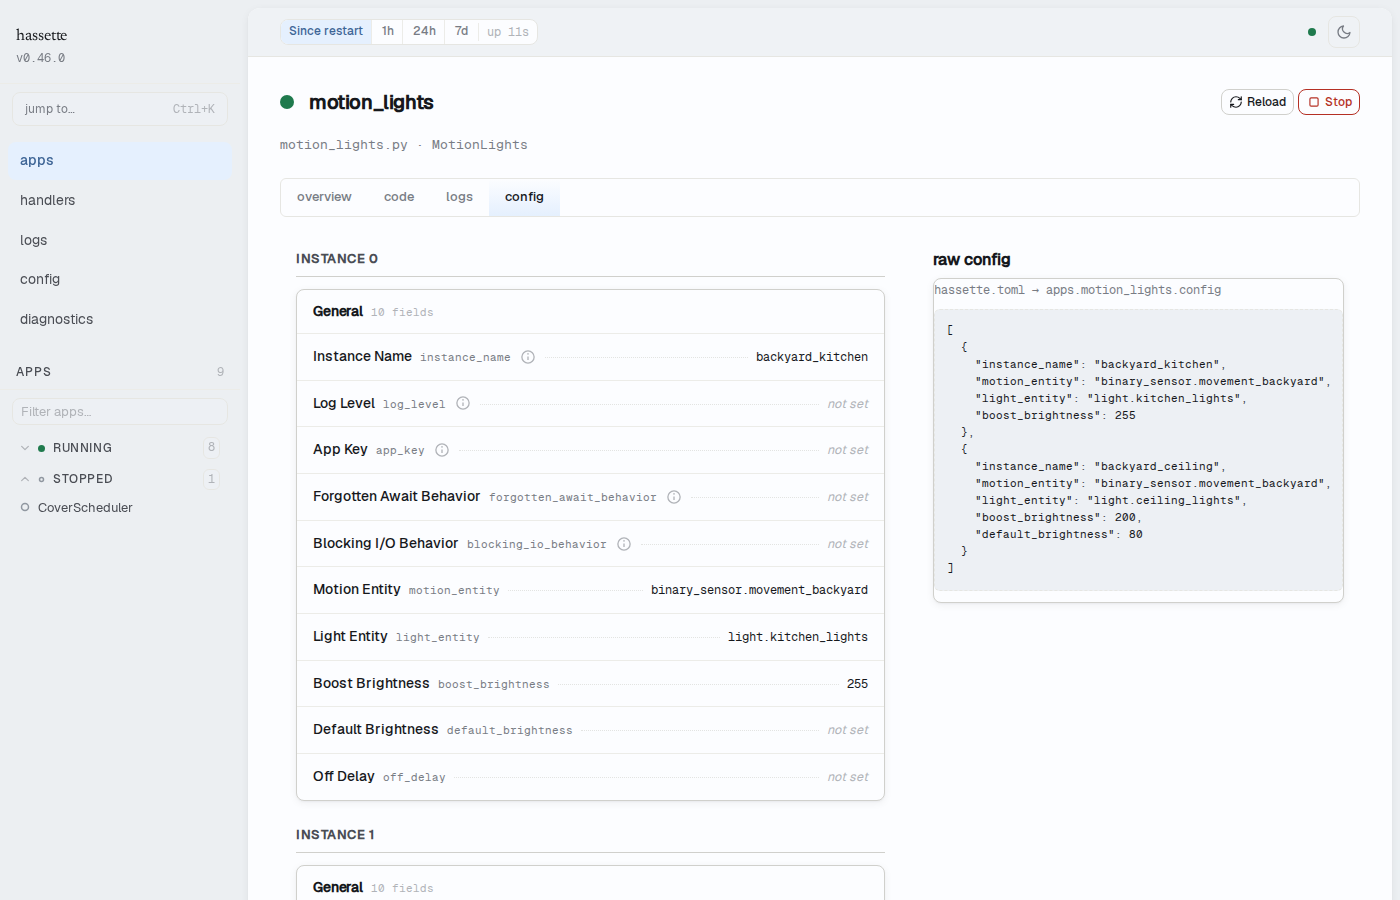
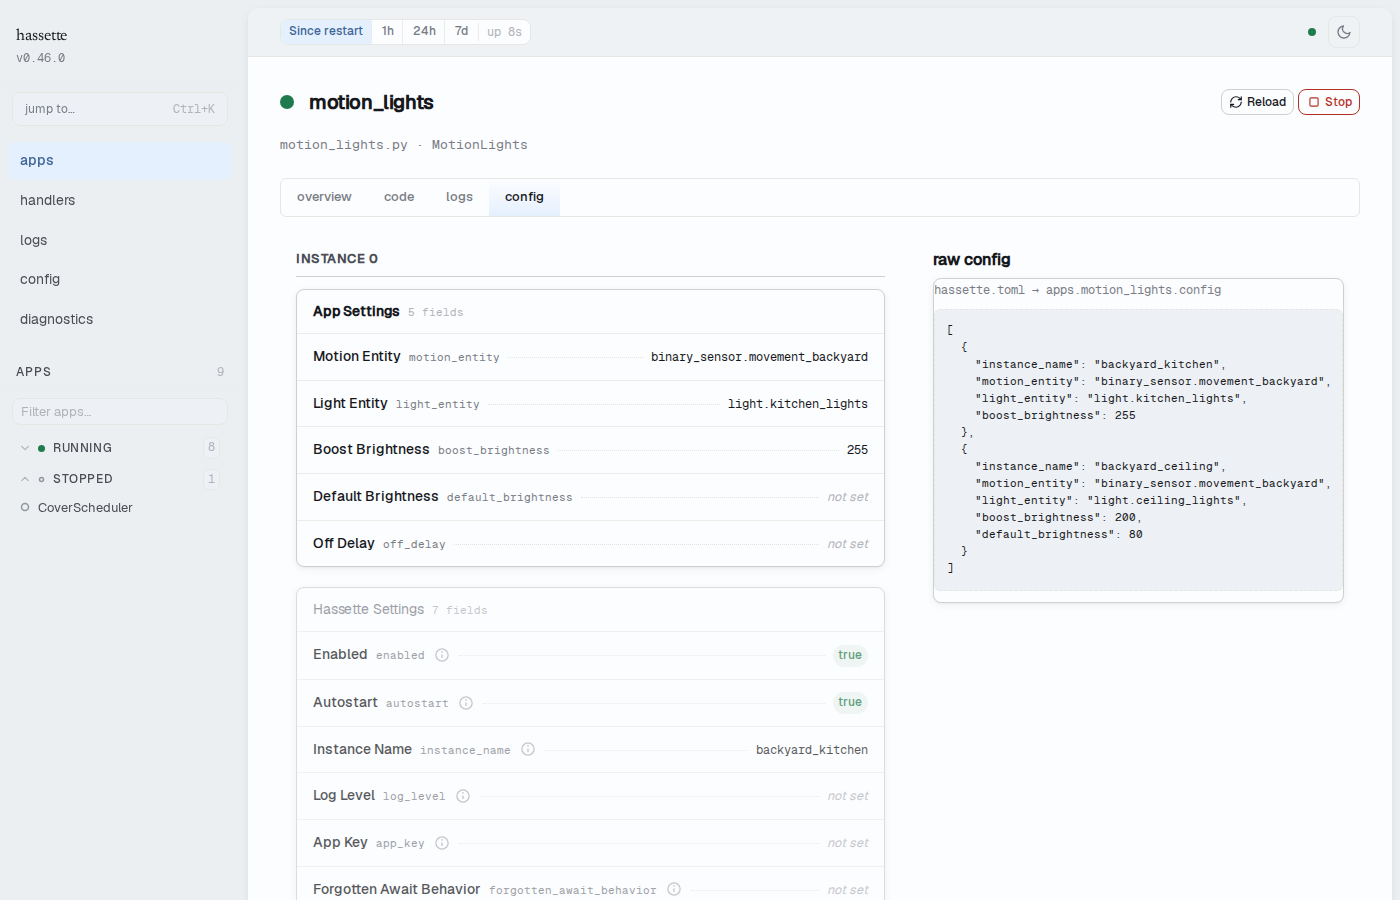
refactor(ui): address coderabbit review on config tab partitioning
- Make autostart and framework_fields required on AppConfigResponse
  (no defaults — both are always set by get_app_config)
- Use m.autostart directly in e2e mock instead of getattr fallback
- Add test for all-framework-managed case (suppresses App Settings)
- Regenerate doc screenshot for the new config tab layout

diff --git a/frontend/src/components/shared/config-schema-view.test.tsx b/frontend/src/components/shared/config-schema-view.test.tsx
@@ -281,6 +281,25 @@ describe("ConfigSchemaView", () => {
       expect(queryByTestId("config-section-hassette-settings")).toBeNull();
     });
 
+    it("omits 'App Settings' when all fields are framework-managed", () => {
+      const frameworkOnlySchema: SchemaNode = {
+        type: "object",
+        properties: {
+          enabled: { type: "boolean", title: "Enabled" },
+          autostart: { type: "boolean", title: "Autostart" },
+        },
+      };
+      const { getByTestId, queryByTestId } = render(
+        <ConfigSchemaView
+          schema={frameworkOnlySchema}
+          values={{ enabled: true, autostart: true }}
+          frameworkFields={["enabled", "autostart"]}
+        />,
+      );
+      expect(queryByTestId("config-section-app-settings")).toBeNull();
+      expect(getByTestId("config-section-hassette-settings")).toBeDefined();
+    });
+
     it("applies de-emphasis to the framework section", () => {
       const { getByTestId } = render(
         <ConfigSchemaView schema={schema} values={values} frameworkFields={frameworkFields} />,

diff --git a/frontend/src/api/generated-types.ts b/frontend/src/api/generated-types.ts
@@ -609,10 +609,7 @@ export interface components {
             class_name: string;
             /** Enabled */
             enabled: boolean;
-            /**
-             * Autostart
-             * @default true
-             */
+            /** Autostart */
             autostart: boolean;
             /** App Config */
             app_config: {
@@ -625,7 +622,7 @@ export interface components {
                 [key: string]: unknown;
             } | null;
             /** Framework Fields */
-            framework_fields?: string[];
+            framework_fields: string[];
         };
         /**
          * AppHealthResponse

diff --git a/src/hassette/web/models.py b/src/hassette/web/models.py
@@ -422,10 +422,10 @@ class AppConfigResponse(BaseModel):
     filename: str
     class_name: str
     enabled: bool
-    autostart: bool = True
+    autostart: bool
     app_config: dict[str, Any] | list[dict[str, Any]]
     config_schema: dict[str, Any] | None = None
-    framework_fields: list[str] = Field(default_factory=list)
+    framework_fields: list[str]
 
 
 class AppSourceResponse(BaseModel):

diff --git a/tests/e2e/mock_fixtures.py b/tests/e2e/mock_fixtures.py
@@ -788,7 +788,7 @@ def wire_app_manifest_lookups(hassette, manifests: list[AppManifestInfo]) -> Non
             stub.app_dir.resolve.return_value = real_path.parent
             stub.full_path.exists.return_value = True
         stub.app_config = {"instance_name": f"{m.class_name}.0", "env_prefix": m.app_key + "_"}
-        stub.autostart = getattr(m, "autostart", True)
+        stub.autostart = m.autostart
         _stubs[m.app_key] = stub
 
     hassette._app_handler.registry.get_manifest.side_effect = lambda app_key: _stubs.get(app_key)